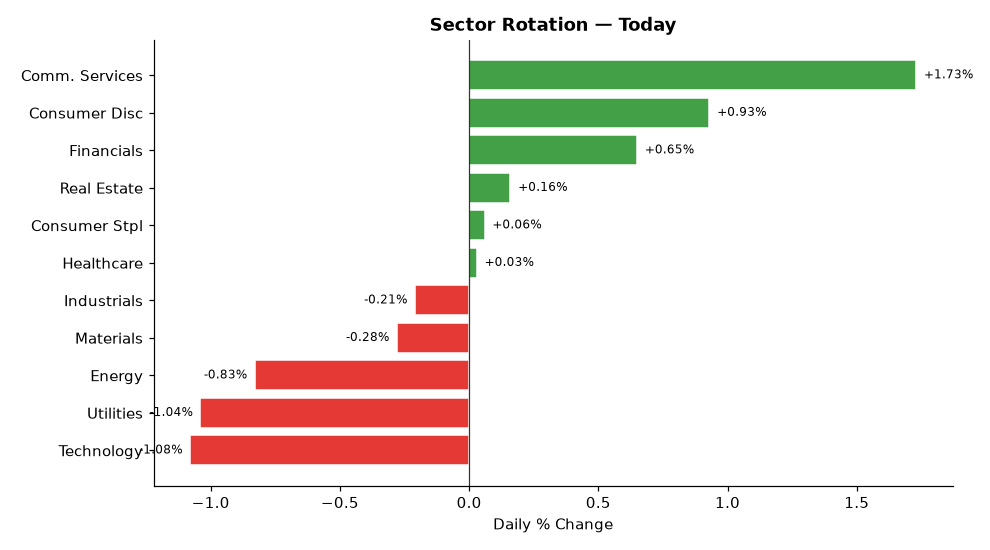
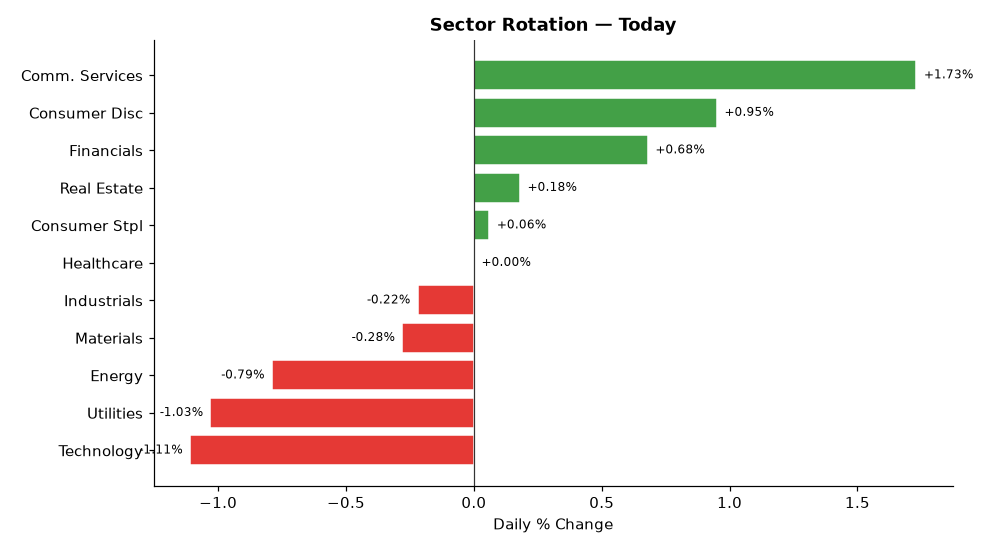
deploy: b7fadf5b06deb90e7ebb92f278722414bdd9750d

diff --git a/index.html b/index.html
@@ -4,7 +4,7 @@
   <meta charset="UTF-8">
   <meta name="viewport" content="width=device-width,initial-scale=1">
   <meta http-equiv="Cache-Control" content="no-cache,no-store,must-revalidate">
-  <title>Stock Breakout Screener — 2026-07-15 20:03</title>
+  <title>Stock Breakout Screener — 2026-07-15 20:49</title>
   <style>
     *{box-sizing:border-box;margin:0;padding:0}
     body{font-family:'Segoe UI',Arial,sans-serif;background:#f0f2f5;
@@ -34,7 +34,7 @@
 
 <div class="hdr">
   <h1>📈 Stock Breakout Screener</h1>
-  <p>Updated: 2026-07-15 20:03 UTC &nbsp;·&nbsp; Phase: After-Hours (4:00–8:00 PM ET) &nbsp;·&nbsp;
+  <p>Updated: 2026-07-15 20:49 UTC &nbsp;·&nbsp; Phase: After-Hours (4:00–8:00 PM ET) &nbsp;·&nbsp;
      129 stocks screened &nbsp;·&nbsp; Top 5 by conviction score</p>
 </div>
 
@@ -69,7 +69,7 @@
             </span>
           </div>
           <ul style="margin:0;padding-left:18px;font-size:13px;
-                     color:#333;line-height:1.8"><li style="margin:5px 0"><span style="background:#ffebee;color:#b71c1c;padding:2px 7px;border-radius:4px;font-size:11px;">❌</span> Volume: <b>1.1× average</b> — Above-average activity</li><li style="margin:5px 0"><span style="background:#e8f5e9;color:#2e7d32;padding:2px 7px;border-radius:4px;font-size:11px;">✅</span> Candle: close <b>$327.50</b> vs open <b>$317.62</b> (+3.1%) — regular market close</li><li style="margin:5px 0"><span style="background:#e8f5e9;color:#2e7d32;padding:2px 7px;border-radius:4px;font-size:11px;">✅</span> 200-Day MA: price <b>$327.50</b> vs MA <b>$277.23</b> — <b>✅ Above</b> long-term trend</li><li style="margin:5px 0"><span style="background:#e8f5e9;color:#2e7d32;padding:2px 7px;border-radius:4px;font-size:11px;">✅</span> Inst. ownership: <b>65.7%</b> · MFI: <b>81.4</b> · Market cap: <b>$4810.1B</b></li><li style="margin:5px 0"><span style="background:#e8f5e9;color:#2e7d32;padding:2px 7px;border-radius:4px;font-size:11px;">✅</span> Last similar breakout: <b>Jun 26, 2026</b> → <b>+11.8%</b> over 10 trading days</li></ul>
+                     color:#333;line-height:1.8"><li style="margin:5px 0"><span style="background:#ffebee;color:#b71c1c;padding:2px 7px;border-radius:4px;font-size:11px;">❌</span> Volume: <b>1.1× average</b> — Above-average activity</li><li style="margin:5px 0"><span style="background:#e8f5e9;color:#2e7d32;padding:2px 7px;border-radius:4px;font-size:11px;">✅</span> Candle: close <b>$327.50</b> vs open <b>$317.61</b> (+3.1%) — regular market close</li><li style="margin:5px 0"><span style="background:#e8f5e9;color:#2e7d32;padding:2px 7px;border-radius:4px;font-size:11px;">✅</span> 200-Day MA: price <b>$327.50</b> vs MA <b>$277.23</b> — <b>✅ Above</b> long-term trend</li><li style="margin:5px 0"><span style="background:#e8f5e9;color:#2e7d32;padding:2px 7px;border-radius:4px;font-size:11px;">✅</span> Inst. ownership: <b>65.7%</b> · MFI: <b>81.4</b> · Market cap: <b>$4810.1B</b></li><li style="margin:5px 0"><span style="background:#e8f5e9;color:#2e7d32;padding:2px 7px;border-radius:4px;font-size:11px;">✅</span> Last similar breakout: <b>Jun 26, 2026</b> → <b>+11.8%</b> over 10 trading days</li></ul>
         </div>
         <div style="background:#fff;border:1px solid #ddd;border-radius:10px;
                     padding:16px 20px;margin-bottom:12px;
@@ -86,7 +86,7 @@
             </span>
           </div>
           <ul style="margin:0;padding-left:18px;font-size:13px;
-                     color:#333;line-height:1.8"><li style="margin:5px 0"><span style="background:#ffebee;color:#b71c1c;padding:2px 7px;border-radius:4px;font-size:11px;">❌</span> Volume: <b>0.8× average</b> — Above-average activity</li><li style="margin:5px 0"><span style="background:#e8f5e9;color:#2e7d32;padding:2px 7px;border-radius:4px;font-size:11px;">✅</span> Candle: close <b>$370.92</b> vs open <b>$358.15</b> (+3.6%) — regular market close</li><li style="margin:5px 0"><span style="background:#e8f5e9;color:#2e7d32;padding:2px 7px;border-radius:4px;font-size:11px;">✅</span> 200-Day MA: price <b>$370.92</b> vs MA <b>$339.96</b> — <b>✅ Above</b> long-term trend</li><li style="margin:5px 0"><span style="background:#e8f5e9;color:#2e7d32;padding:2px 7px;border-radius:4px;font-size:11px;">✅</span> Inst. ownership: <b>80.6%</b> · MFI: <b>42.9</b> · Market cap: <b>$4526.2B</b></li></ul>
+                     color:#333;line-height:1.8"><li style="margin:5px 0"><span style="background:#ffebee;color:#b71c1c;padding:2px 7px;border-radius:4px;font-size:11px;">❌</span> Volume: <b>0.9× average</b> — Above-average activity</li><li style="margin:5px 0"><span style="background:#e8f5e9;color:#2e7d32;padding:2px 7px;border-radius:4px;font-size:11px;">✅</span> Candle: close <b>$370.92</b> vs open <b>$358.15</b> (+3.6%) — regular market close</li><li style="margin:5px 0"><span style="background:#e8f5e9;color:#2e7d32;padding:2px 7px;border-radius:4px;font-size:11px;">✅</span> 200-Day MA: price <b>$370.92</b> vs MA <b>$339.96</b> — <b>✅ Above</b> long-term trend</li><li style="margin:5px 0"><span style="background:#e8f5e9;color:#2e7d32;padding:2px 7px;border-radius:4px;font-size:11px;">✅</span> Inst. ownership: <b>80.6%</b> · MFI: <b>43.0</b> · Market cap: <b>$4526.2B</b></li></ul>
         </div>
         <div style="background:#fff;border:1px solid #ddd;border-radius:10px;
                     padding:16px 20px;margin-bottom:12px;
@@ -99,7 +99,7 @@
             <span style="margin-left:auto;background:#1a237e;color:#fff;
                          padding:3px 12px;border-radius:12px;
                          font-size:13px;font-weight:600">
-              10/17
+              11/17
             </span>
           </div>
           <ul style="margin:0;padding-left:18px;font-size:13px;
@@ -111,7 +111,7 @@
           <div style="display:flex;align-items:center;gap:10px;
                       flex-wrap:wrap;margin-bottom:10px">
             <span style="font-size:22px">🟡</span>
-            <span style="font-size:19px;font-weight:700">4. BLK</span>
+            <span style="font-size:19px;font-weight:700">4. MS</span>
             <span style="font-size:12px;color:#666">Financials</span>
             <span style="margin-left:auto;background:#1a237e;color:#fff;
                          padding:3px 12px;border-radius:12px;
@@ -120,7 +120,7 @@
             </span>
           </div>
           <ul style="margin:0;padding-left:18px;font-size:13px;
-                     color:#333;line-height:1.8"><li style="margin:5px 0"><span style="background:#fffde7;color:#f57f17;padding:2px 7px;border-radius:4px;font-size:11px;">⚠</span> Volume: <b>1.8× average</b> — Above-average activity</li><li style="margin:5px 0"><span style="background:#fffde7;color:#f57f17;padding:2px 7px;border-radius:4px;font-size:11px;">⚠</span> Candle: close <b>$1093.23</b> vs open <b>$1100.00</b> (-0.6%) — regular market close</li><li style="margin:5px 0"><span style="background:#e8f5e9;color:#2e7d32;padding:2px 7px;border-radius:4px;font-size:11px;">✅</span> 200-Day MA: price <b>$1093.23</b> vs MA <b>$1030.41</b> — <b>✅ Above</b> long-term trend</li><li style="margin:5px 0"><span style="background:#e8f5e9;color:#2e7d32;padding:2px 7px;border-radius:4px;font-size:11px;">✅</span> Inst. ownership: <b>84.3%</b> · MFI: <b>53.4</b> · Market cap: <b>$177.8B</b></li></ul>
+                     color:#333;line-height:1.8"><li style="margin:5px 0"><span style="background:#fffde7;color:#f57f17;padding:2px 7px;border-radius:4px;font-size:11px;">⚠</span> Volume: <b>1.6× average</b> — Above-average activity</li><li style="margin:5px 0"><span style="background:#fffde7;color:#f57f17;padding:2px 7px;border-radius:4px;font-size:11px;">⚠</span> Candle: close <b>$228.55</b> vs open <b>$222.70</b> (+2.6%) — regular market close</li><li style="margin:5px 0"><span style="background:#e8f5e9;color:#2e7d32;padding:2px 7px;border-radius:4px;font-size:11px;">✅</span> 200-Day MA: price <b>$228.55</b> vs MA <b>$187.97</b> — <b>✅ Above</b> long-term trend</li><li style="margin:5px 0"><span style="background:#e8f5e9;color:#2e7d32;padding:2px 7px;border-radius:4px;font-size:11px;">✅</span> Inst. ownership: <b>62.7%</b> · MFI: <b>50.5</b> · Market cap: <b>$360.5B</b></li></ul>
         </div>
         <div style="background:#fff;border:1px solid #ddd;border-radius:10px;
                     padding:16px 20px;margin-bottom:12px;
@@ -128,8 +128,8 @@
           <div style="display:flex;align-items:center;gap:10px;
                       flex-wrap:wrap;margin-bottom:10px">
             <span style="font-size:22px">🟡</span>
-            <span style="font-size:19px;font-weight:700">5. EBAY</span>
-            <span style="font-size:12px;color:#666">Consumer Disc</span>
+            <span style="font-size:19px;font-weight:700">5. BLK</span>
+            <span style="font-size:12px;color:#666">Financials</span>
             <span style="margin-left:auto;background:#1a237e;color:#fff;
                          padding:3px 12px;border-radius:12px;
                          font-size:13px;font-weight:600">
@@ -137,7 +137,7 @@
             </span>
           </div>
           <ul style="margin:0;padding-left:18px;font-size:13px;
-                     color:#333;line-height:1.8"><li style="margin:5px 0"><span style="background:#ffebee;color:#b71c1c;padding:2px 7px;border-radius:4px;font-size:11px;">❌</span> Volume: <b>0.6× average</b> — Above-average activity</li><li style="margin:5px 0"><span style="background:#ffebee;color:#b71c1c;padding:2px 7px;border-radius:4px;font-size:11px;">❌</span> Candle: close <b>$112.76</b> vs open <b>$113.34</b> (-0.5%) — regular market close</li><li style="margin:5px 0"><span style="background:#e8f5e9;color:#2e7d32;padding:2px 7px;border-radius:4px;font-size:11px;">✅</span> 200-Day MA: price <b>$112.76</b> vs MA <b>$99.90</b> — <b>✅ Above</b> long-term trend</li><li style="margin:5px 0"><span style="background:#e8f5e9;color:#2e7d32;padding:2px 7px;border-radius:4px;font-size:11px;">✅</span> Inst. ownership: <b>96.2%</b> · MFI: <b>50.8</b> · Market cap: <b>$50.1B</b></li><li style="margin:5px 0"><span style="background:#e8f5e9;color:#2e7d32;padding:2px 7px;border-radius:4px;font-size:11px;">✅</span> Last similar breakout: <b>Apr 30, 2026</b> → <b>+9.4%</b> over 10 trading days</li></ul>
+                     color:#333;line-height:1.8"><li style="margin:5px 0"><span style="background:#fffde7;color:#f57f17;padding:2px 7px;border-radius:4px;font-size:11px;">⚠</span> Volume: <b>1.8× average</b> — Above-average activity</li><li style="margin:5px 0"><span style="background:#fffde7;color:#f57f17;padding:2px 7px;border-radius:4px;font-size:11px;">⚠</span> Candle: close <b>$1093.40</b> vs open <b>$1100.00</b> (-0.6%) — regular market close</li><li style="margin:5px 0"><span style="background:#e8f5e9;color:#2e7d32;padding:2px 7px;border-radius:4px;font-size:11px;">✅</span> 200-Day MA: price <b>$1093.40</b> vs MA <b>$1030.42</b> — <b>✅ Above</b> long-term trend</li><li style="margin:5px 0"><span style="background:#e8f5e9;color:#2e7d32;padding:2px 7px;border-radius:4px;font-size:11px;">✅</span> Inst. ownership: <b>84.3%</b> · MFI: <b>53.4</b> · Market cap: <b>$177.8B</b></li></ul>
         </div>
 
 
@@ -179,7 +179,7 @@
             81.4</td>
           <td style="background:#ffcdd2">Technology</td>
           <td style="background:#c8e6c9">
-            138.4%</td>
+            130.9%</td>
           <td style="background:#c8e6c9">
             +11.8%</td>
           <td style="font-weight:800;font-size:15px">12/17</td>
@@ -187,17 +187,17 @@
         <tr>
           <td style="font-weight:700;text-align:left;padding-left:10px">
             🟡 GOOGL</td>
-          <td style="background:#ffcdd2">0.8×</td>
+          <td style="background:#ffcdd2">0.9×</td>
           <td style="background:#c8e6c9">+3.6%</td>
           <td style="background:#c8e6c9">
             ▲ Above</td>
           <td style="background:#c8e6c9">
             80.6%</td>
           <td style="background:#ffcdd2">
-            42.9</td>
+            43.0</td>
           <td style="background:#c8e6c9">Comm. Services</td>
           <td style="background:#c8e6c9">
-            97.5%</td>
+            107.6%</td>
           <td style="background:#ffcdd2">
             N/A</td>
           <td style="font-weight:800;font-size:15px">11/17</td>
@@ -214,8 +214,26 @@
           <td style="background:#c8e6c9">
             65.7</td>
           <td style="background:#c8e6c9">Comm. Services</td>
+          <td style="background:#c8e6c9">
+            153.6%</td>
           <td style="background:#ffcdd2">
-            6.2%</td>
+            N/A</td>
+          <td style="font-weight:800;font-size:15px">11/17</td>
+        </tr>
+        <tr>
+          <td style="font-weight:700;text-align:left;padding-left:10px">
+            🟡 MS</td>
+          <td style="background:#fff9c4">1.6×</td>
+          <td style="background:#fff9c4">+2.6%</td>
+          <td style="background:#c8e6c9">
+            ▲ Above</td>
+          <td style="background:#c8e6c9">
+            62.7%</td>
+          <td style="background:#fff9c4">
+            50.5</td>
+          <td style="background:#fff9c4">Financials</td>
+          <td style="background:#c8e6c9">
+            102.0%</td>
           <td style="background:#ffcdd2">
             N/A</td>
           <td style="font-weight:800;font-size:15px">10/17</td>
@@ -233,27 +251,9 @@
             53.4</td>
           <td style="background:#fff9c4">Financials</td>
           <td style="background:#c8e6c9">
-            71.3%</td>
+            79.8%</td>
           <td style="background:#ffcdd2">
             N/A</td>
-          <td style="font-weight:800;font-size:15px">10/17</td>
-        </tr>
-        <tr>
-          <td style="font-weight:700;text-align:left;padding-left:10px">
-            🟡 EBAY</td>
-          <td style="background:#ffcdd2">0.6×</td>
-          <td style="background:#ffcdd2">-0.5%</td>
-          <td style="background:#c8e6c9">
-            ▲ Above</td>
-          <td style="background:#c8e6c9">
-            96.2%</td>
-          <td style="background:#fff9c4">
-            50.8</td>
-          <td style="background:#fff9c4">Consumer Disc</td>
-          <td style="background:#c8e6c9">
-            87.4%</td>
-          <td style="background:#c8e6c9">
-            +9.4%</td>
           <td style="font-weight:800;font-size:15px">10/17</td>
         </tr>
 </table>
@@ -283,17 +283,17 @@
         <tr>
           <td style="text-align:left;padding-left:10px;font-weight:600">
             #2 Consumer Disc</td>
-          <td style="background:#e8f5e9;color:#2e7d32;font-weight:700">+0.93%</td>
+          <td style="background:#e8f5e9;color:#2e7d32;font-weight:700">+0.95%</td>
         </tr>
         <tr>
           <td style="text-align:left;padding-left:10px;font-weight:600">
             #3 Financials</td>
-          <td style="background:#e8f5e9;color:#2e7d32;font-weight:700">+0.65%</td>
+          <td style="background:#e8f5e9;color:#2e7d32;font-weight:700">+0.68%</td>
         </tr>
         <tr>
           <td style="text-align:left;padding-left:10px;font-weight:600">
             #4 Real Estate</td>
-          <td style="background:#e8f5e9;color:#2e7d32;font-weight:700">+0.16%</td>
+          <td style="background:#e8f5e9;color:#2e7d32;font-weight:700">+0.18%</td>
         </tr>
         <tr>
           <td style="text-align:left;padding-left:10px;font-weight:600">
@@ -303,12 +303,12 @@
         <tr>
           <td style="text-align:left;padding-left:10px;font-weight:600">
             #6 Healthcare</td>
-          <td style="background:#e8f5e9;color:#2e7d32;font-weight:700">+0.03%</td>
+          <td style="background:#ffebee;color:#c62828;font-weight:700">+0.00%</td>
         </tr>
         <tr>
           <td style="text-align:left;padding-left:10px;font-weight:600">
             #7 Industrials</td>
-          <td style="background:#ffebee;color:#c62828;font-weight:700">-0.21%</td>
+          <td style="background:#ffebee;color:#c62828;font-weight:700">-0.22%</td>
         </tr>
         <tr>
           <td style="text-align:left;padding-left:10px;font-weight:600">
@@ -318,17 +318,17 @@
         <tr>
           <td style="text-align:left;padding-left:10px;font-weight:600">
             #9 Energy</td>
-          <td style="background:#ffebee;color:#c62828;font-weight:700">-0.83%</td>
+          <td style="background:#ffebee;color:#c62828;font-weight:700">-0.79%</td>
         </tr>
         <tr>
           <td style="text-align:left;padding-left:10px;font-weight:600">
             #10 Utilities</td>
-          <td style="background:#ffebee;color:#c62828;font-weight:700">-1.04%</td>
+          <td style="background:#ffebee;color:#c62828;font-weight:700">-1.03%</td>
         </tr>
         <tr>
           <td style="text-align:left;padding-left:10px;font-weight:600">
             #11 Technology</td>
-          <td style="background:#ffebee;color:#c62828;font-weight:700">-1.08%</td>
+          <td style="background:#ffebee;color:#c62828;font-weight:700">-1.11%</td>
         </tr>
     </table>
   </div>
@@ -367,7 +367,7 @@
         <li><b>Scoring weights:</b>
             Inst.Own(3) · Sector(3) · Volume(2) · Breakout(2) ·
             MA200(2) · MFI(2) · History(2) · IV(1) = 17pts max</li>
-        <li><b>Run time:</b> 2026-07-15 20:03 UTC — Market phase: After-Hours (4:00–8:00 PM ET)</li>
+        <li><b>Run time:</b> 2026-07-15 20:49 UTC — Market phase: After-Hours (4:00–8:00 PM ET)</li>
       </ul>
     </div>
 
